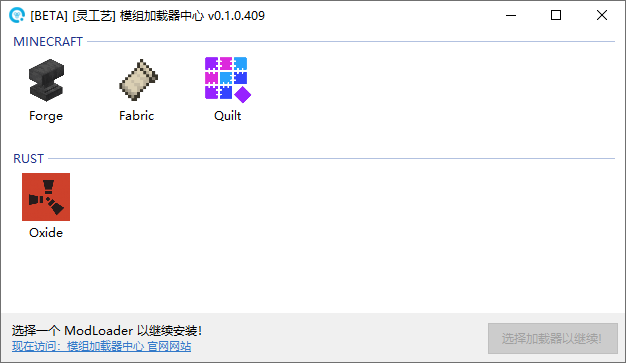
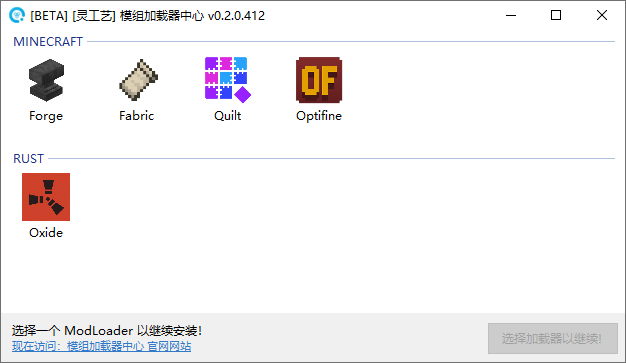
#60: update /software/modloader-center

Changed region(s): [[0.4553, 0.1515, 0.5463, 0.3333], [0.3946, 0.0303, 0.4249, 0.0606], [0.3339, 0.0303, 0.3642, 0.0606]]

diff --git a/software/modloader-center/README.md b/software/modloader-center/README.md
@@ -57,4 +57,6 @@ Trace.WriteLine(NullCraftSoftwareList.Items.Conut());
 
 <figure><img src="../../.gitbook/assets/modloader_center_minecraft_quilt.png" alt=""><figcaption><p>Minecraft Quilt</p></figcaption></figure>
 
+<figure><img src="../../.gitbook/assets/modloader_center_minecraft_optifine.png" alt=""><figcaption><p>Minecraft Optifine</p></figcaption></figure>
+
 <figure><img src="../../.gitbook/assets/modloader_center_rust_oxide.png" alt=""><figcaption><p>Rust Oxide</p></figcaption></figure>

diff --git a/software/modloader-center/introduction.md b/software/modloader-center/introduction.md
@@ -28,7 +28,7 @@ description: Introducing your software
 
 1. 运行《模组加载器中心》进入工具主界面
 
-<figure><img src="../../.gitbook/assets/modloader_center_home.png" alt=""><figcaption><p>主界面</p></figcaption></figure>
+<figure><img src="broken-reference" alt=""><figcaption><p>主界面</p></figcaption></figure>
 
 2. 选择你要安装的 **游戏** 下的 **加载器**(ModLoader)，这里我们以 Minecraft-Fabric 为例。
 

diff --git a/software/modloader-center/update.md b/software/modloader-center/update.md
@@ -10,6 +10,17 @@ description: ModLoader Center Update
 
 ## 更新记录
 
+### \[BETA] 0.2.0.412 (2024-04-12)
+
+<mark style="color:blue;">**`[更新]`**</mark>
+
+* 新增 Minecraft Optifine 加载器
+
+<mark style="color:orange;">**`[优化]`**</mark>
+
+* 使用性能更好的 HttpClient 作为网络类
+* 弃用 HttpWebRequest 原因：已过时
+
 ### \[BETA] 0.1.0.409 (2024-04-09)
 
 <mark style="color:purple;">**`[发布]`**</mark>
